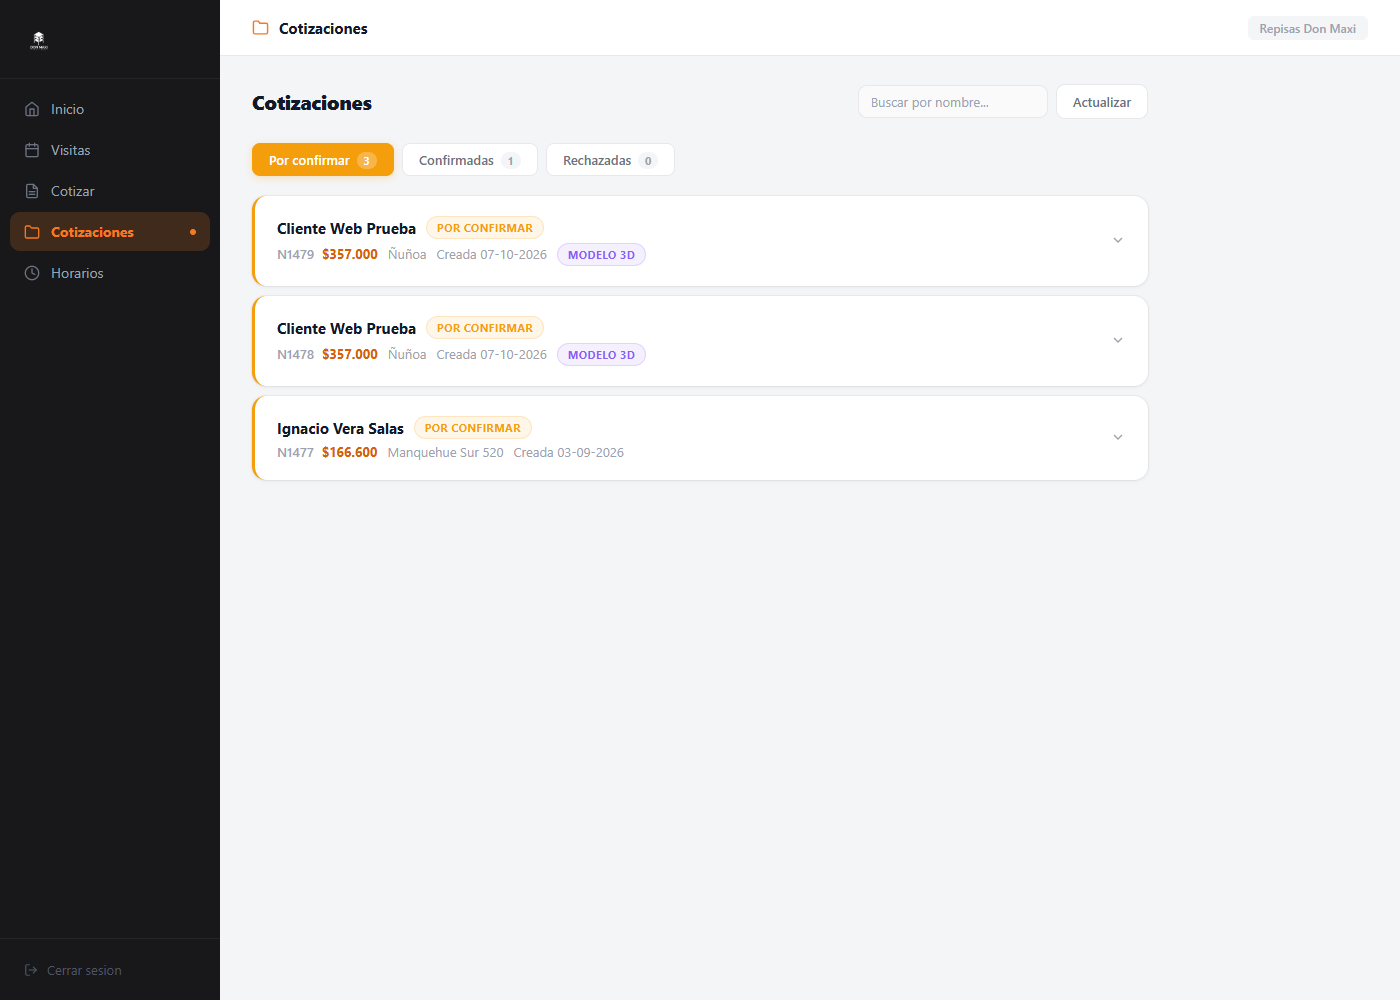
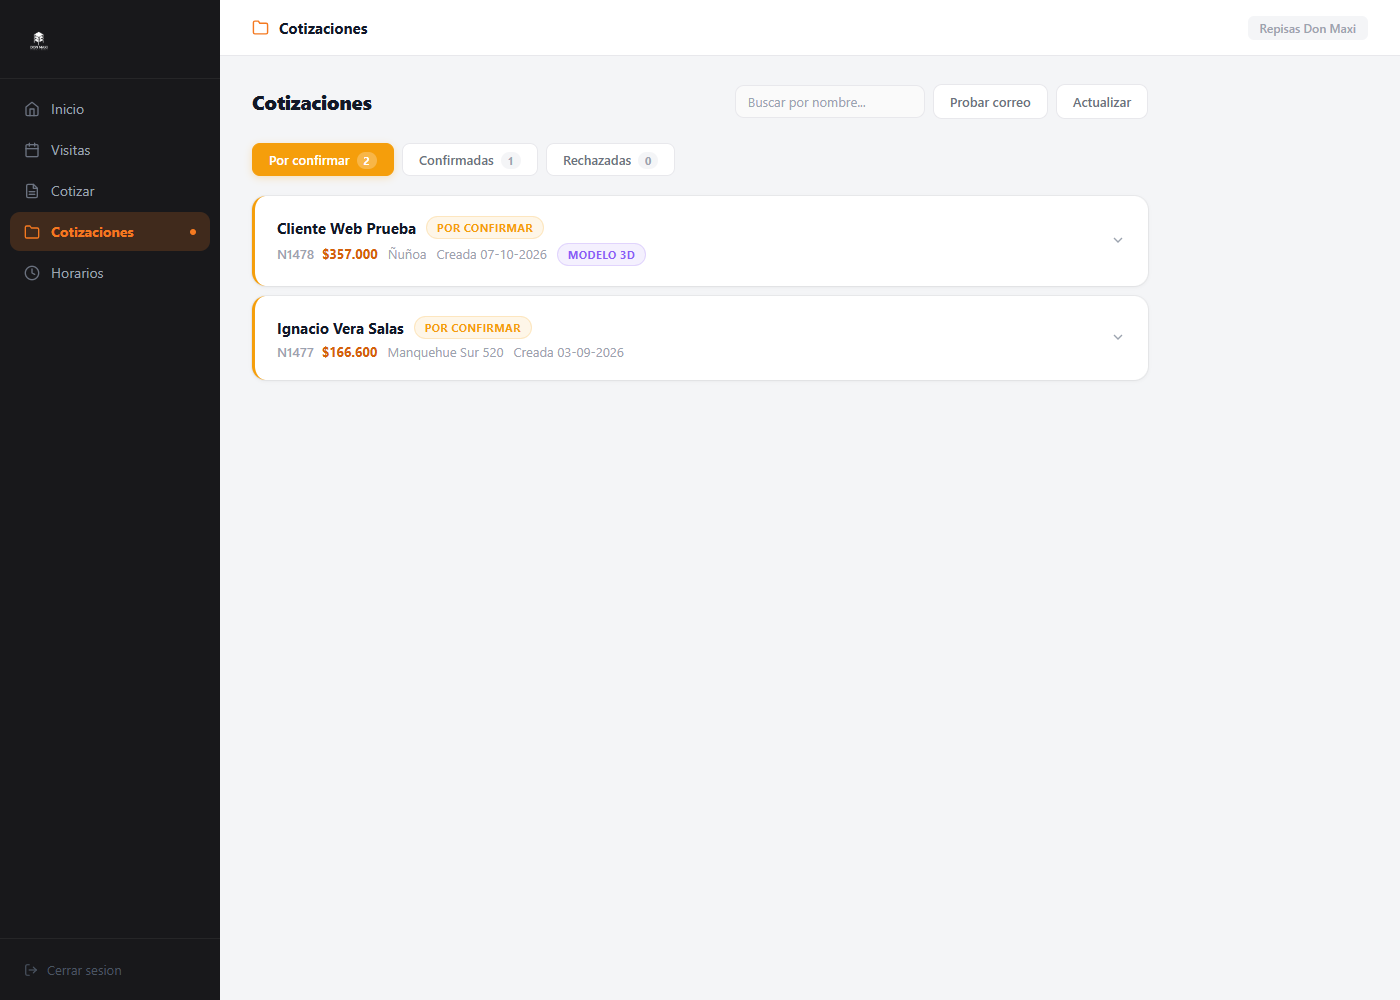
feat(cotiza): ver el PDF al terminar y diagnostico de correo
- La pantalla final tiene "Ver PDF" y "Descargar PDF": el PDF viene en la
  respuesta, asi se ve aunque fallen el correo o Drive.
- Si el correo no sale, la cotizacion queda anotada con la causa ("Correo no
  enviado: ...") y el admin la muestra en rojo.
- Boton "Probar correo" en Cotizaciones: manda un correo de prueba y explica
  por que Google lo rechaza (permiso, API de Gmail apagada, token vencido...).

Changed region(s): [[0.1843, 0.31, 0.4607, 0.372], [0.1843, 0.403, 0.43, 0.465], [0.5529, 0.093, 0.7371, 0.124]]

diff --git a/src/admin/Cotizaciones.jsx b/src/admin/Cotizaciones.jsx
@@ -32,6 +32,7 @@ export default function CotizacionesSection({ onAbrirEnCotizador }) {
   const [confirmDel, setConfirmDel]     = useState(null)
   const [buscar, setBuscar]             = useState('')
   const [abriendo, setAbriendo]         = useState(null)
+  const [probandoCorreo, setProbandoCorreo] = useState(false)
 
   const load = useCallback(async () => {
     setLoading(true); setError('')
@@ -107,6 +108,18 @@ export default function CotizacionesSection({ onAbrirEnCotizador }) {
     finally { setAbriendo(null) }
   }
 
+  // Diagnostico: manda un correo de prueba y muestra la causa exacta si Google lo rechaza.
+  async function probarCorreo() {
+    setProbandoCorreo(true)
+    try {
+      const r = await apiFetch('/.netlify/functions/probar-correo', { method: 'POST' })
+      alert(r.ok
+        ? `Correo de prueba enviado a ${r.para}${r.remitente ? ' desde ' + r.remitente : ''}. Revisa esa bandeja.`
+        : `No se pudo enviar el correo de prueba a ${r.para || 'NOTIFY_EMAIL'}.\n\n${r.causa || r.error}\n\nDetalle de Google: ${r.detalle || '-'}`)
+    } catch (e) { alert('No se pudo probar el correo: ' + e.message) }
+    finally { setProbandoCorreo(false) }
+  }
+
   const TABS = [
     { key: 'por confirmar', label: 'Por confirmar', color: C.yellow },
     { key: 'confirmada',    label: 'Confirmadas',   color: C.green  },
@@ -138,6 +151,7 @@ export default function CotizacionesSection({ onAbrirEnCotizador }) {
             placeholder="Buscar por nombre..."
             style={{ ...styles.input, width: 190, padding: '7px 12px', fontSize: 13 }}
           />
+          <button onClick={probarCorreo} disabled={probandoCorreo} style={styles.btnSecondary}>{probandoCorreo ? 'Probando...' : 'Probar correo'}</button>
           <button onClick={load} style={styles.btnSecondary}>Actualizar</button>
         </div>
       </div>
@@ -260,6 +274,7 @@ export default function CotizacionesSection({ onAbrirEnCotizador }) {
                     {q.iva      > 0 && <><span style={styles.detailLabel}>IVA</span><span style={{ fontSize: 13 }}>{fmt(q.iva)}</span></>}
                     {q.total    > 0 && <><span style={styles.detailLabel}>Total</span><span style={{ fontSize: 13, fontWeight: 700, color: C.orangeDark }}>{fmt(q.total)}</span></>}
                     {q.motivoRechazo && <><span style={styles.detailLabel}>Motivo</span><span style={{ fontSize: 13, color: C.red }}>{q.motivoRechazo}</span></>}
+                    {q.notas && <><span style={styles.detailLabel}>Notas</span><span style={{ fontSize: 13, color: /Correo no enviado/.test(q.notas) ? C.red : C.textSub }}>{q.notas}</span></>}
                   </div>
 
                   {/* PDF */}

diff --git a/src/CotizaApp.jsx b/src/CotizaApp.jsx
@@ -161,7 +161,15 @@ export default function CotizaApp() {
       clearInterval(avance)
       setProgreso(p => p && { ...p, pct: 100, etapa: ETAPAS.length })
       await new Promise(r => setTimeout(r, 450))
-      setResultado({ ...data, email: form.email.trim() })
+      // El PDF viene en la respuesta: se abre desde el navegador, sin depender del correo ni de Drive.
+      let pdfDisponible = ''
+      if (data.pdfBase64) {
+        const binario = atob(data.pdfBase64)
+        const bytes = new Uint8Array(binario.length)
+        for (let i = 0; i < binario.length; i++) bytes[i] = binario.charCodeAt(i)
+        pdfDisponible = URL.createObjectURL(new Blob([bytes], { type: 'application/pdf' }))
+      } else if (data.pdfUrl) pdfDisponible = data.pdfUrl
+      setResultado({ ...data, pdfBase64: undefined, pdfDisponible, email: form.email.trim() })
       window.scrollTo({ top: 0, behavior: 'smooth' })
     } catch (err) { setError(err.message) }
     finally { clearInterval(avance); clearInterval(reloj); setProgreso(null); setEnviando(false) }
@@ -170,7 +178,7 @@ export default function CotizaApp() {
   // El cliente ya tiene sus medidas: la pantalla final empuja a cerrar ahora, con la oferta
   // de 48 horas, el pago en linea, la transferencia o el WhatsApp.
   if (resultado) {
-    const { cotNum, total, oferta, pago, whatsapp } = resultado
+    const { cotNum, total, oferta, pago, whatsapp, pdfDisponible } = resultado
     const mensaje = `Hola, quiero aceptar la cotización N° ${cotNum} por ${pesos(total)}`
     return (
       <div className="ctz">
@@ -180,7 +188,14 @@ export default function CotizaApp() {
           <p className="ctz-listo-total">{pesos(total)} <small>con IVA</small></p>
           {resultado.correoEnviado
             ? <p className="ctz-nota">Te enviamos el PDF a <strong>{resultado.email}</strong>.</p>
-            : <p className="ctz-nota">No pudimos enviarla a tu correo, pero quedó registrada: te escribimos por WhatsApp.</p>}
+            : <p className="ctz-nota">No pudimos enviarla a tu correo, pero quedó registrada. Descárgala aquí abajo; también te la mandamos por WhatsApp.</p>}
+
+          {pdfDisponible && (
+            <div className="ctz-pdf">
+              <a className="ctz-boton secundario" href={pdfDisponible} target="_blank" rel="noreferrer">Ver PDF</a>
+              <a className="ctz-boton secundario" href={pdfDisponible} download={`Cotizacion ${cotNum} - Repisas Don Maxi.pdf`}>Descargar PDF</a>
+            </div>
+          )}
 
           <div className="ctz-oferta">
             <strong>{oferta.descuento}% de descuento adicional</strong>

diff --git a/src/cotiza.css b/src/cotiza.css
@@ -38,6 +38,8 @@
 .ctz-confianza li::before{content:"✓ "}
 .ctz-enlace{background:none;border:none;color:var(--acento-osc);font:inherit;font-weight:700;text-decoration:underline;cursor:pointer;padding:6px}
 .ctz-acciones{display:grid;gap:10px}
+.ctz-pdf{display:grid;grid-template-columns:1fr 1fr;gap:8px}
+.ctz-pdf .ctz-boton{min-height:44px;font-size:14px}
 /* Envio en curso: tarjeta al centro con barra, porcentaje, segundos y etapas. */
 .ctz-progreso-fondo{position:fixed;inset:0;z-index:50;display:grid;place-items:center;padding:20px;background:rgba(28,25,23,.45);backdrop-filter:blur(3px)}
 .ctz-progreso{width:min(420px,100%);background:#fff;border-radius:20px;padding:24px 22px;box-shadow:0 24px 60px rgba(0,0,0,.25);display:grid;gap:12px}
